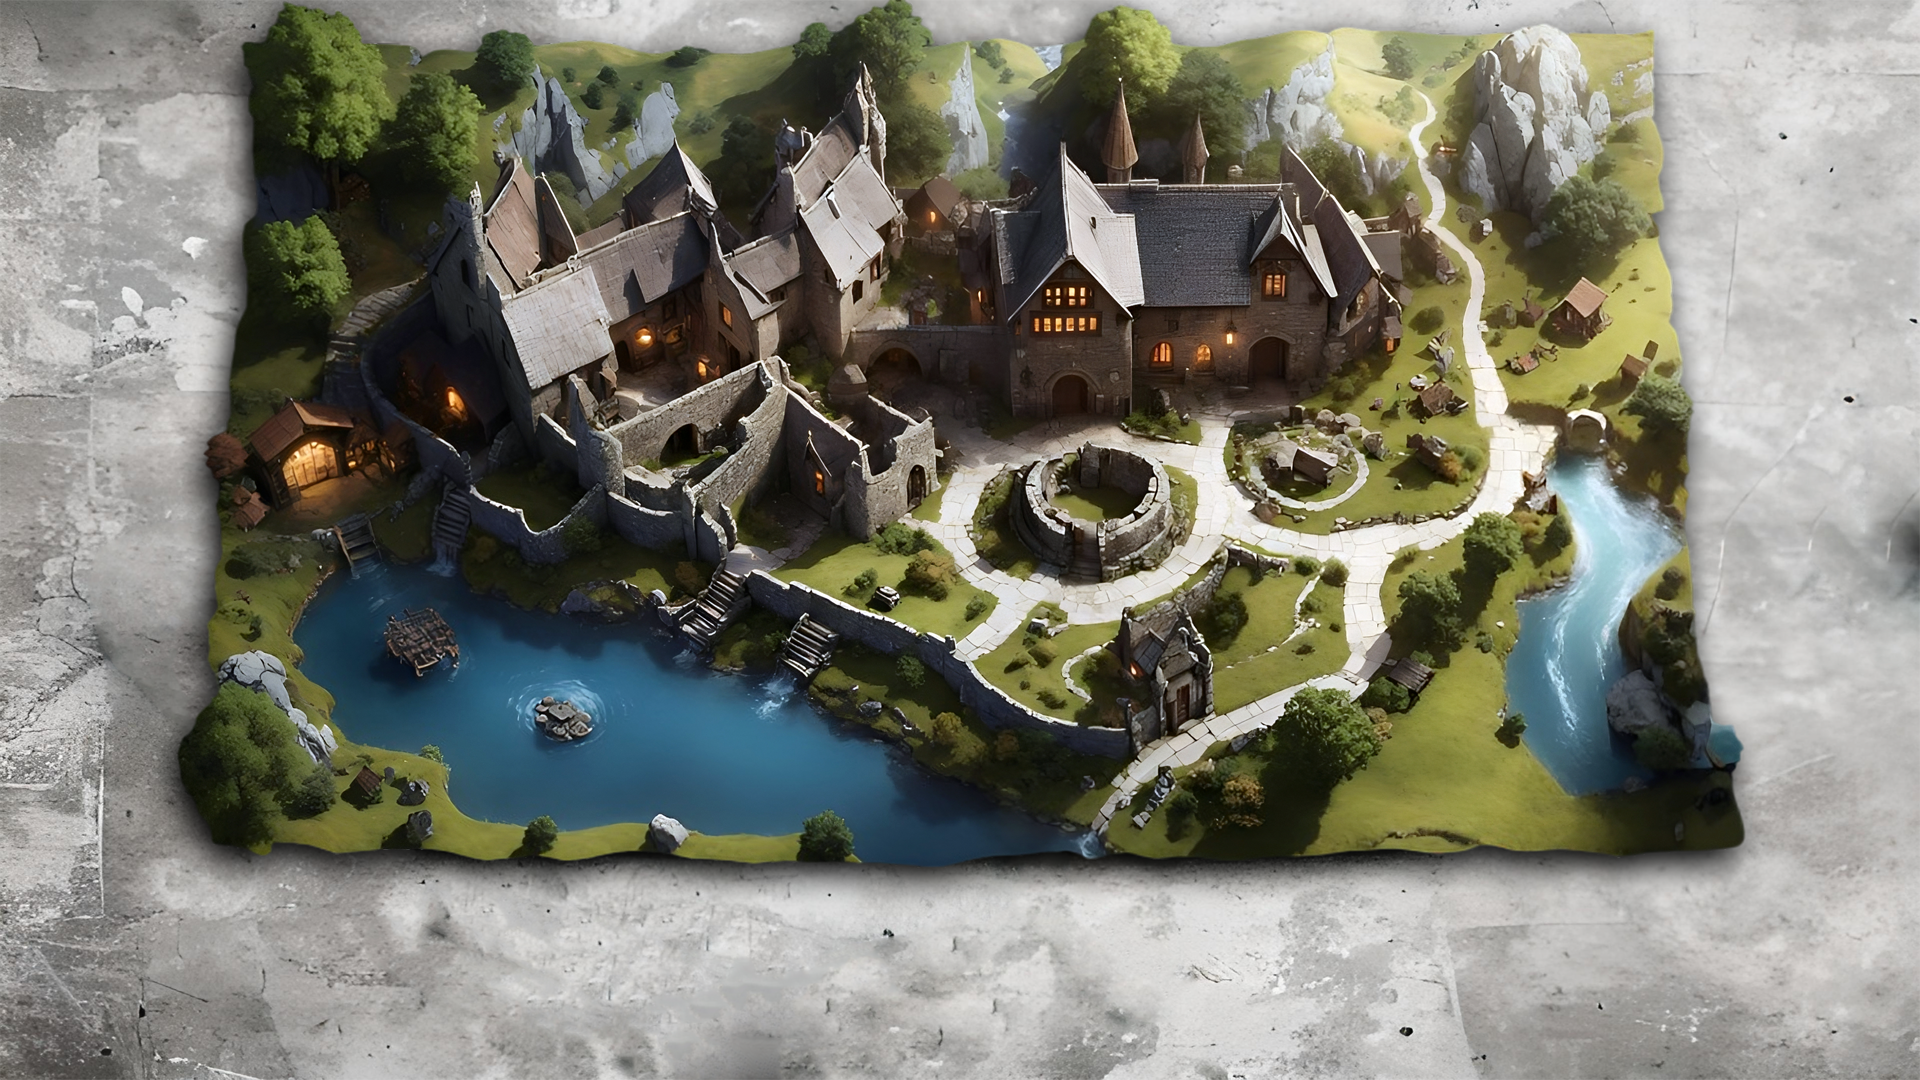
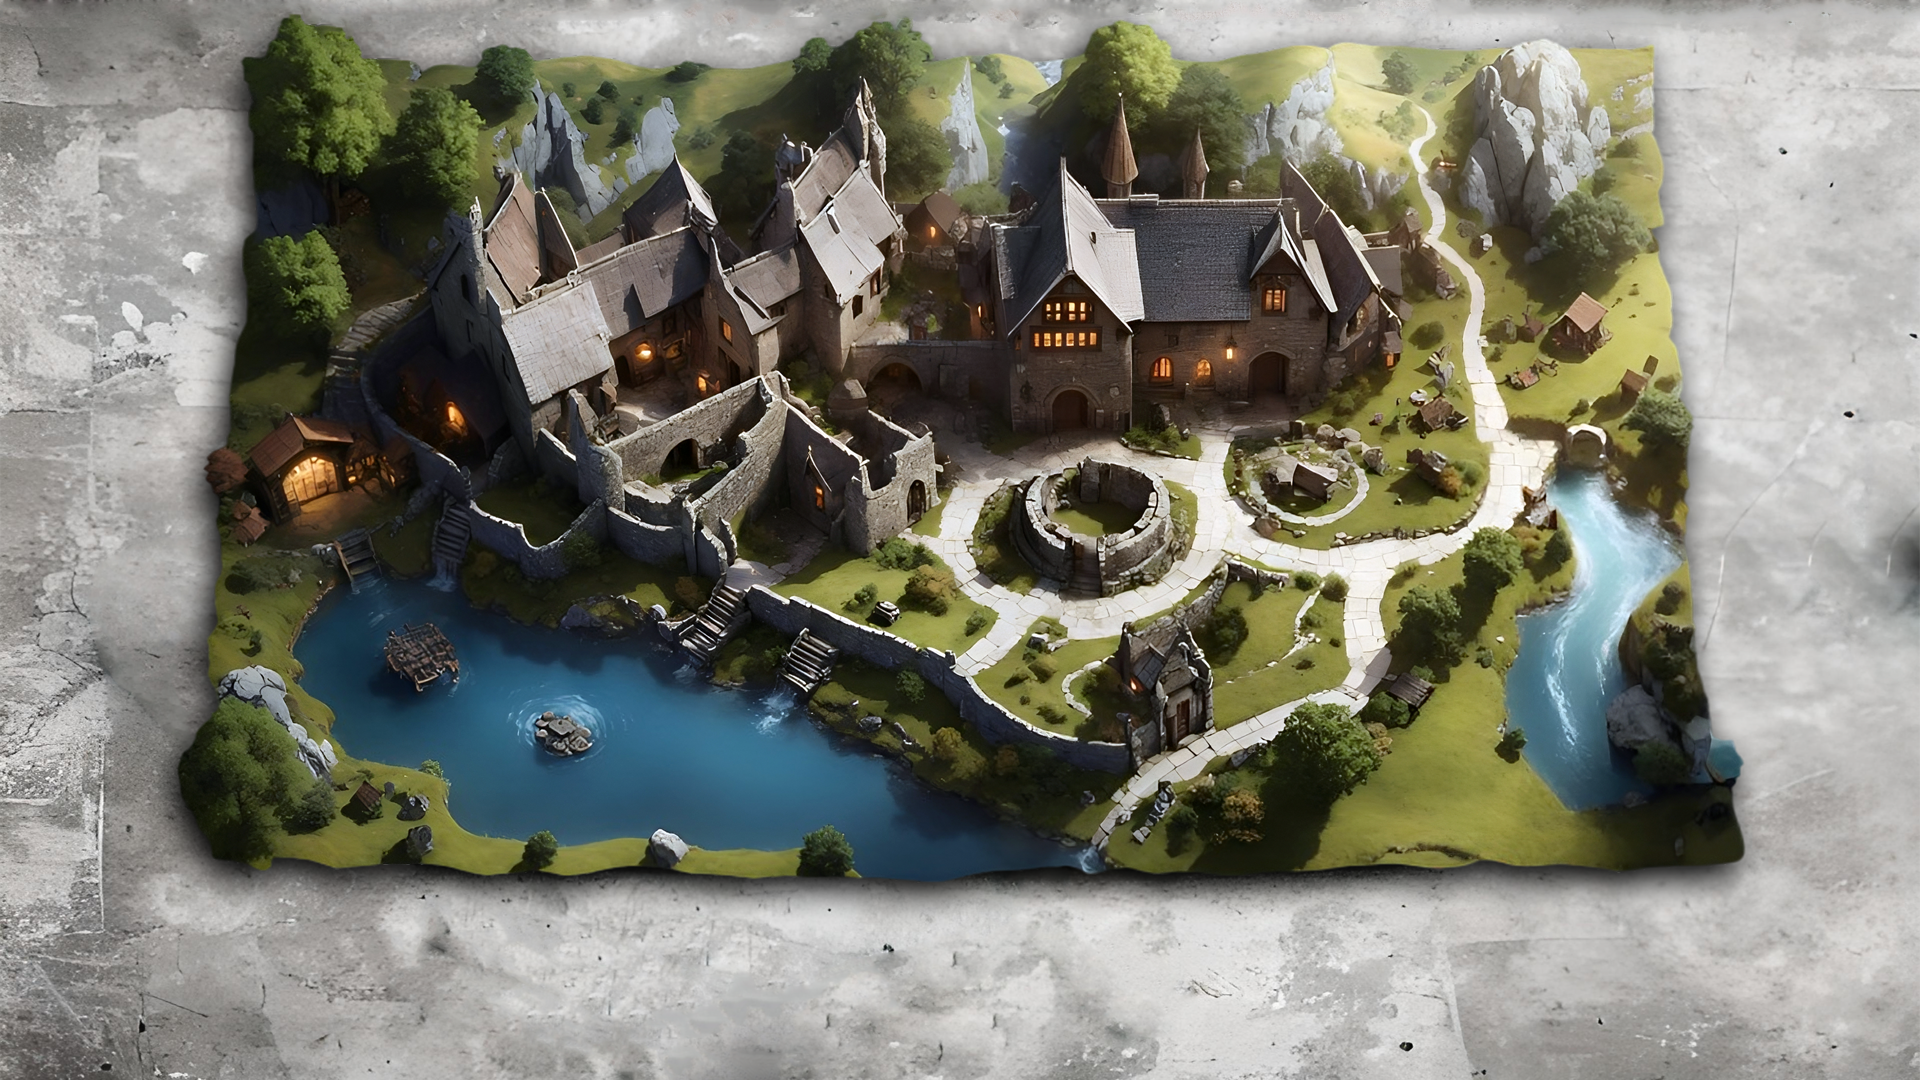
test

diff --git a/EerieTown/siteapp/templates/siteapp/index.html b/EerieTown/siteapp/templates/siteapp/index.html
@@ -10,10 +10,10 @@
         <br>
         <br>
         <div class="parentMap">
-            <img src="/media/MapWFramelarge.png" alt="..." >
+            <img src="/media/MapWFramelarge.png" alt="..." style="width: 100vw; height: 56.25vw; display: block; " >
             <div class="childStones">
                 <a href="{% url 'siteapp:patch_list' %}">
-                    <img class="img1" src="/media/stone.png" alt=""/>
+                    <img class="img1" src="/media/stone.png" alt="" style="width: 9vw; height: 7.5vw;"/>
                 </a>
             </div>
         </div>

diff --git a/EerieTown/static/css/styles.css b/EerieTown/static/css/styles.css
@@ -1,11 +1,10 @@
 
 .childStones {
   position: absolute;
-  top: 440px;
-  left: 1010px;
+  top: 42.2%;
+  left: 52.5%;
 }
 .parentMap {
-
   position: absolute;
   top: 0px;
   left: 0px;
